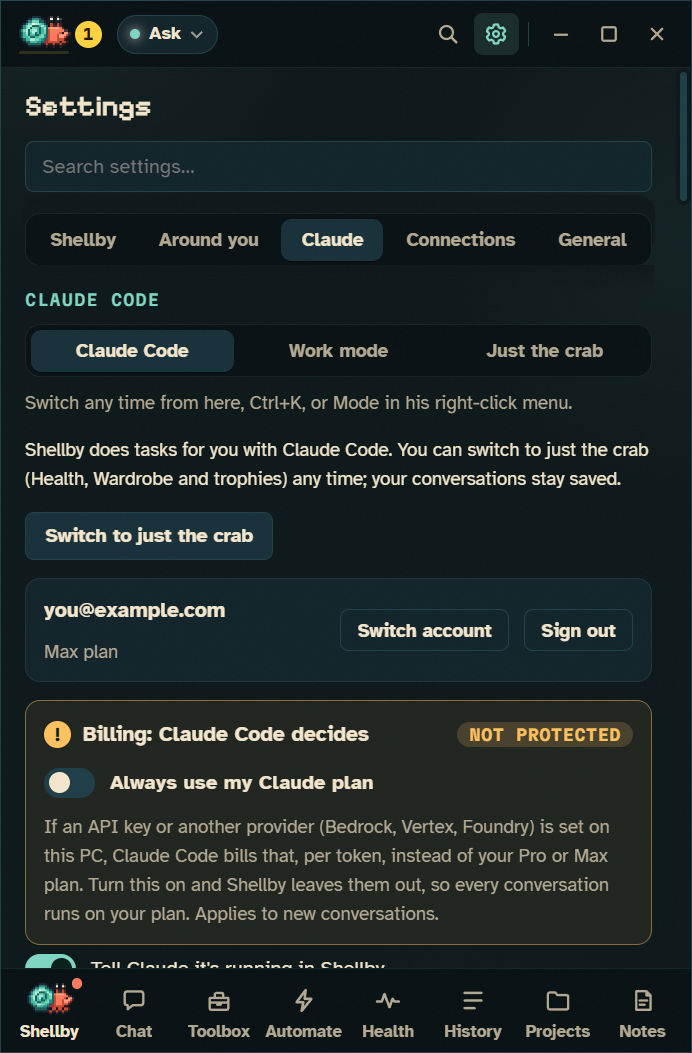
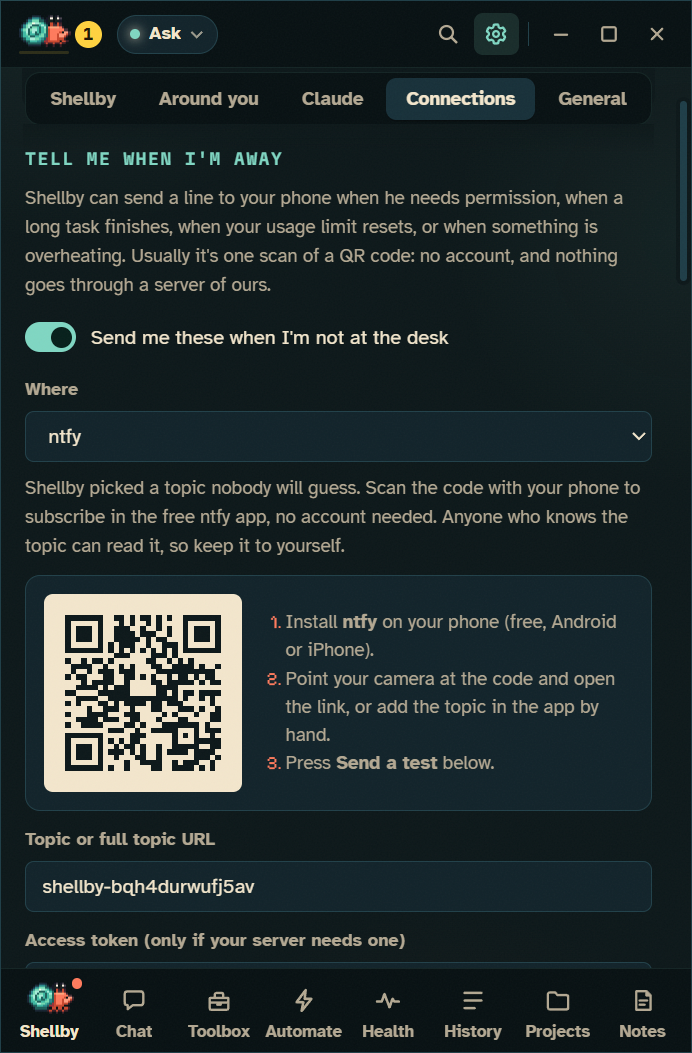
fix: the phone-notification screenshot shows the Connections tab
Since Settings got tabs, the capture opened on the Claude tab and scrolled
to a section it couldn't see, so screenshot-away.png showed the wrong page.

diff --git a/src/main/capture.js b/src/main/capture.js
@@ -322,6 +322,9 @@ async function captureLife({ critter, panel, send, out, wardrobe, config, broadc
   send(panel, 'demo', { ...base, tabs: DEMO_TABS, active: 'demo-crew', view: 'settings' });
   await wait(900);
   const js = code => panel.webContents.executeJavaScript(code);
+  // Phone notifications live on the Connections tab; Settings opens on another.
+  await js("document.getElementById('setTab-connect').click()");
+  await wait(400);
   await js("document.getElementById('chEnabled').click()");
   await wait(1400);
   await js("document.getElementById('channelsGroup').scrollIntoView({ block: 'start' })");
